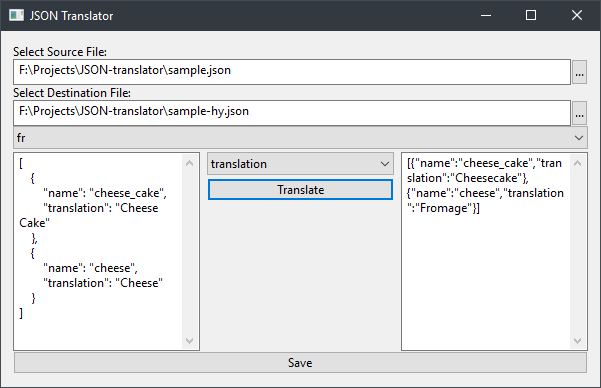
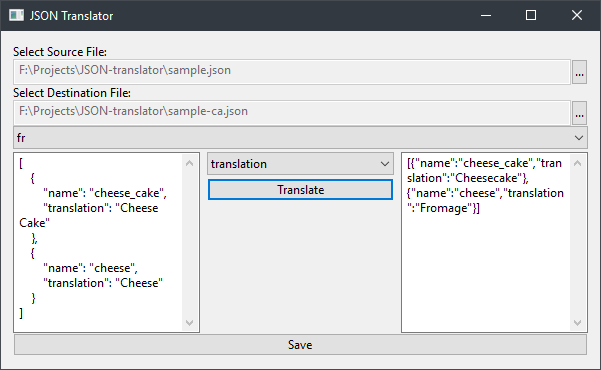
disable things that cant be edited

diff --git a/sourceInputBox.go b/sourceInputBox.go
@@ -8,6 +8,7 @@ import (
 
 func CreateSourceInputBox(targetLanguageStore *StringStore, destinationFilePathStore *StringStore, jsonFileStore *JSONFileStore) *ui.Box {
 	sourcePath := ui.NewEntry()
+	sourcePath.Disable()
 
 	go func() {
 		for sourceFilePath := range sourceFilePathStore.channel {

diff --git a/destinationInputBox.go b/destinationInputBox.go
@@ -4,6 +4,7 @@ import "github.com/divanvisagie/ui"
 
 func CreateDestinationInputBox(destinationFilePathStore *StringStore) *ui.Box {
 	sourcePath := ui.NewEntry()
+	sourcePath.Disable()
 	destinationFilePathStore.SetValue("")
 
 	openDestinationButton := ui.NewButton("...")
